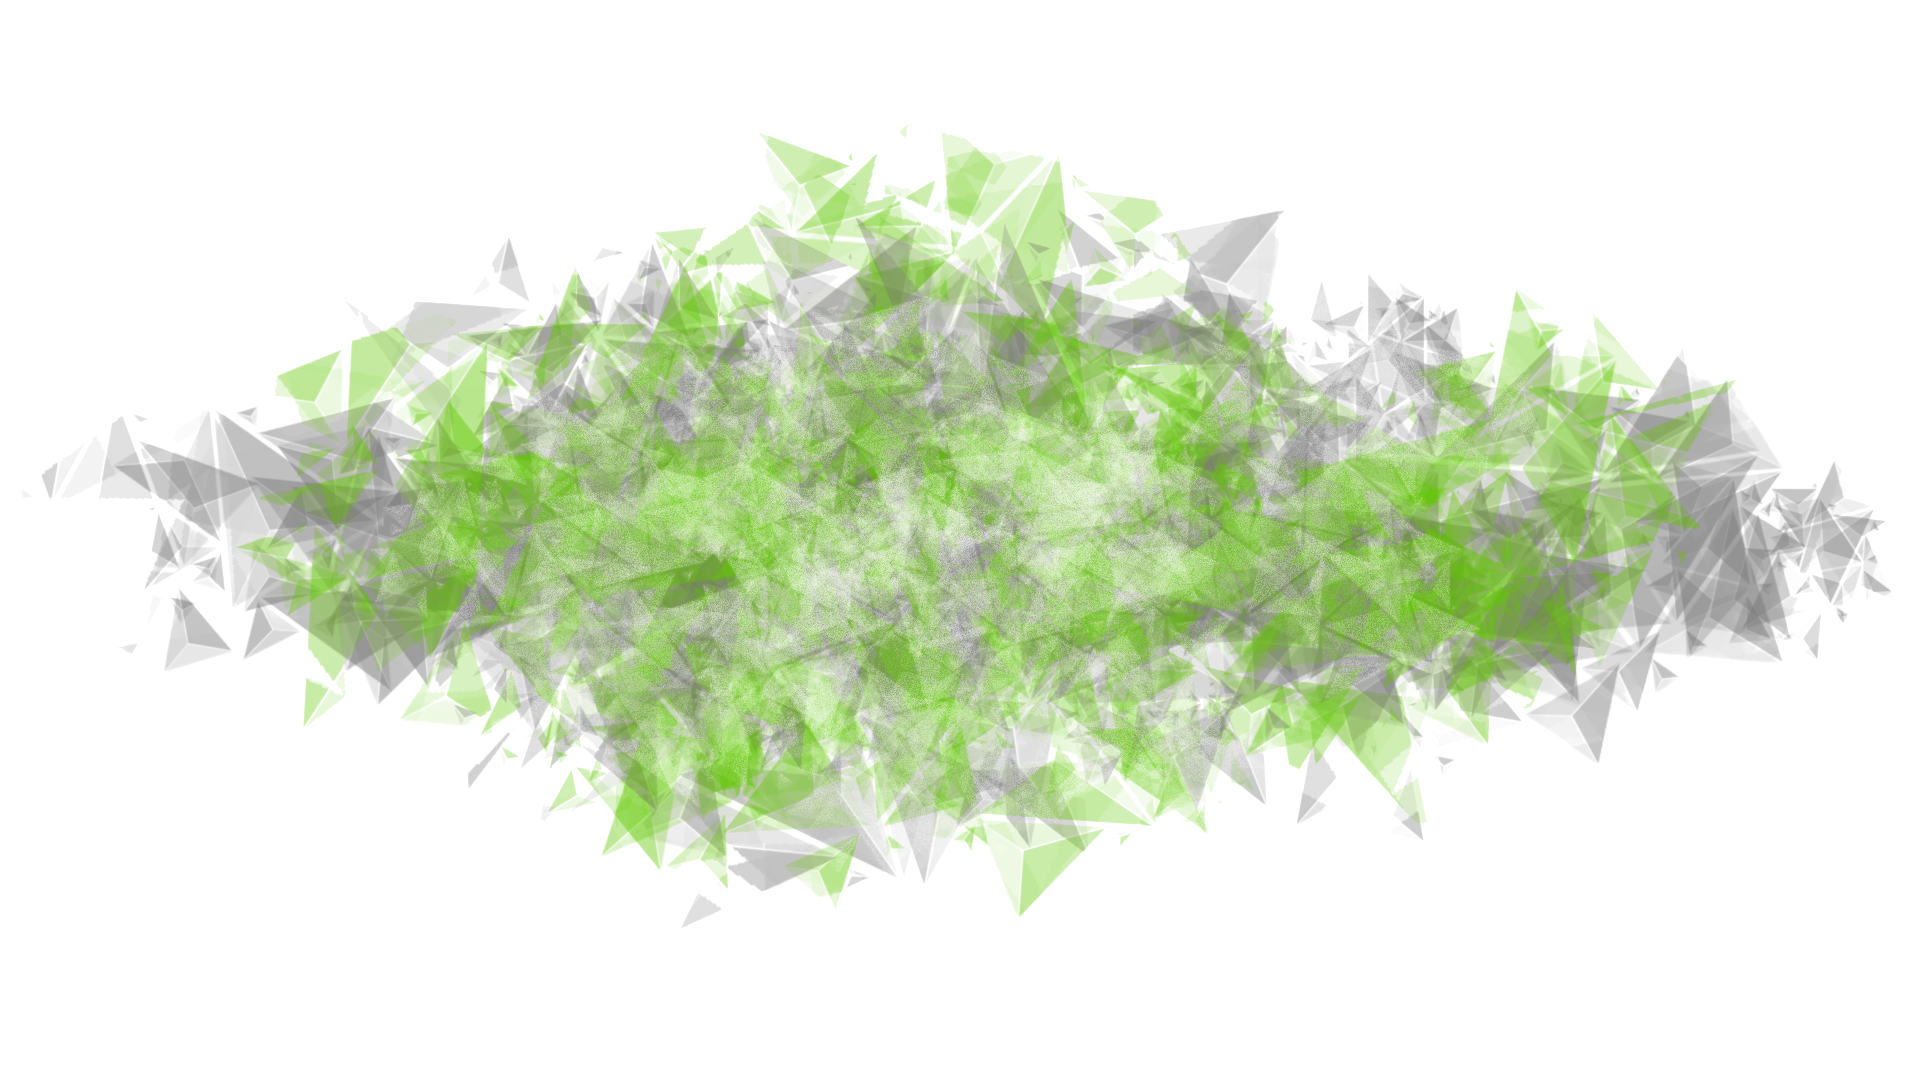
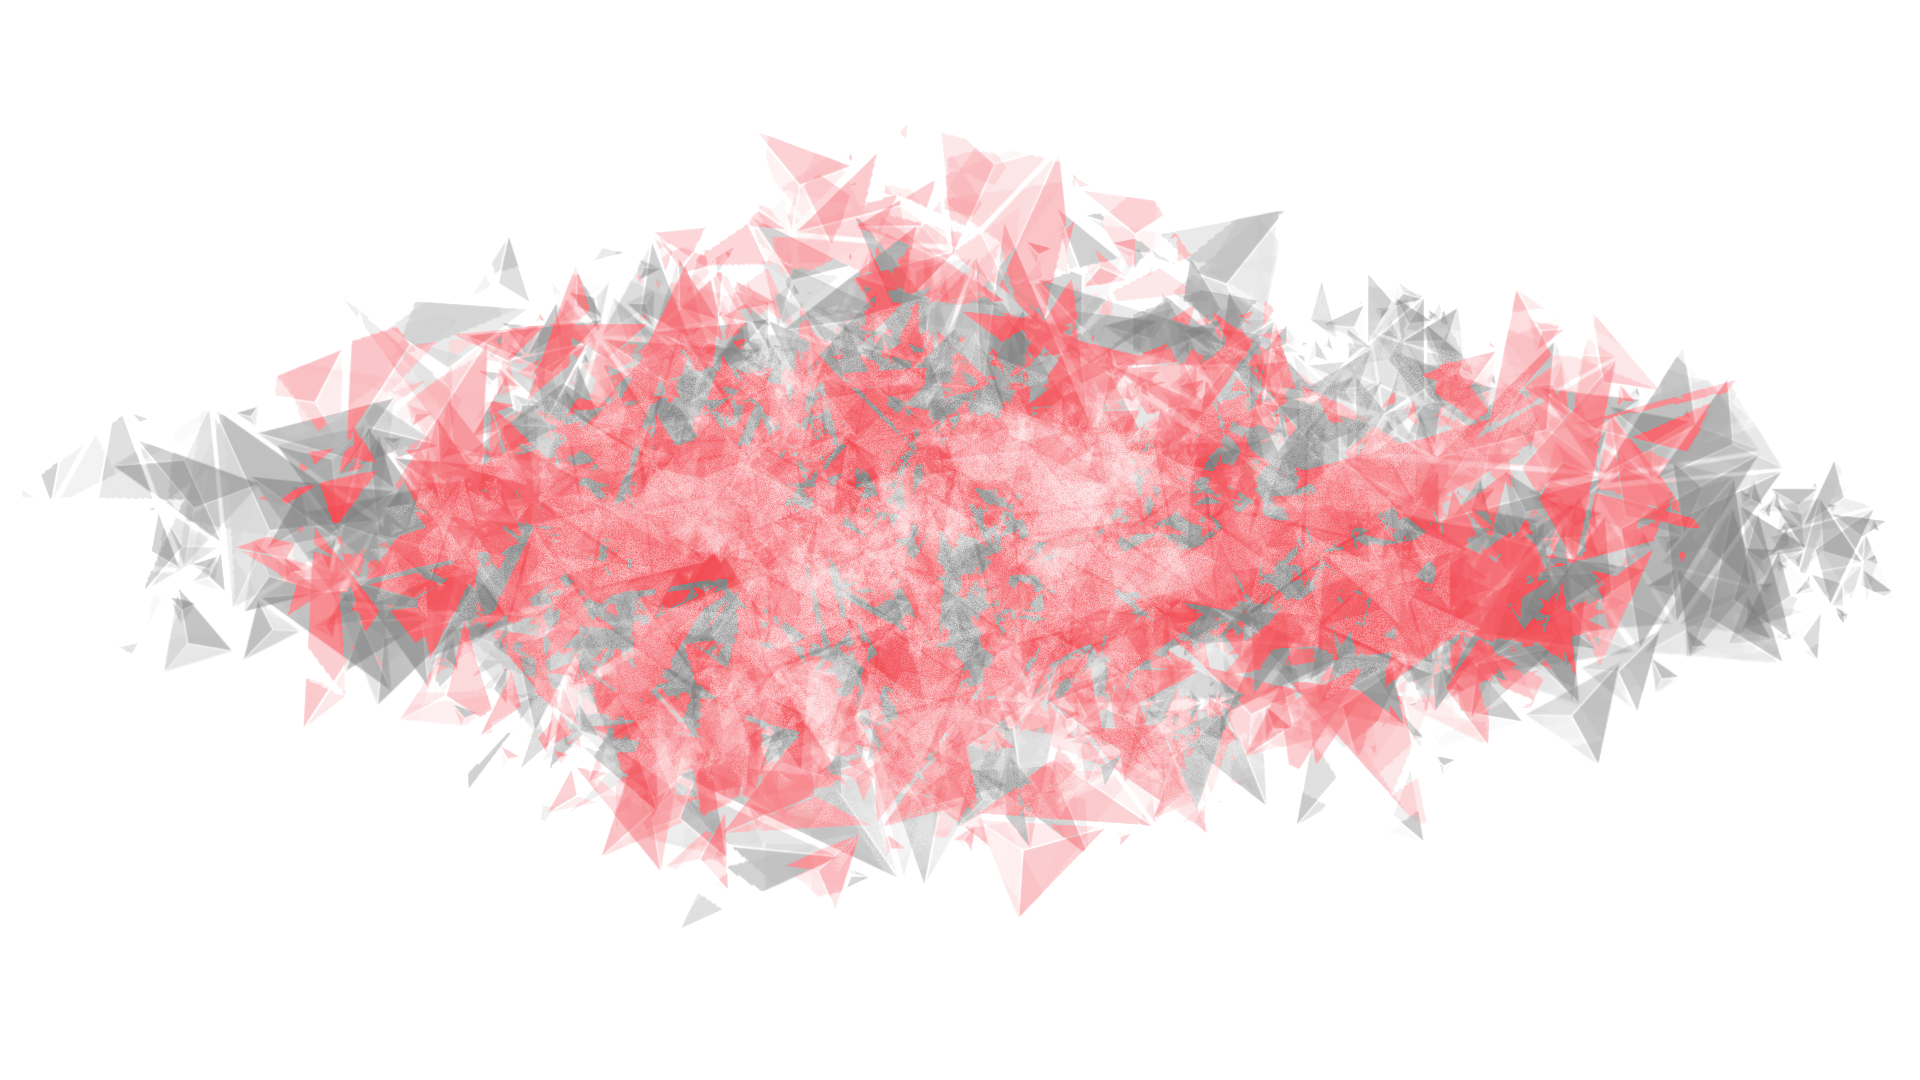
red>green

Changed region(s): [[0.125, 0.1222, 0.9062, 0.8556]]

diff --git a/main.css b/main.css
@@ -1,8 +1,8 @@
 /* VARIABLES */
 
 :root {
-    --primary-color: rgba(130, 224, 0, 0.9);
-    --secondary-color: rgba(94, 160, 2, 0.9);
+    --primary-color: rgba(227, 0, 7, 0.9);
+    --secondary-color: rgba(162, 0, 5, 0.9);
     --lighter-bg-color: #eee;
     --font-color: #000;
     --bg-color: #fff;
@@ -16,8 +16,8 @@
 }
 
 [data-theme="dark"] {
-    --primary-color: rgba(177, 255, 69, 0.9);
-    --secondary-color: rgba(94, 160, 2, 0.9);
+    --primary-color: rgba(227, 0, 7, 0.9);
+    --secondary-color: rgba(162, 0, 5, 0.9);
     --lighter-bg-color: rgb(30, 30, 30);
     --font-color: #ffffff;
     --bg-color: #0a0a0a;
@@ -274,7 +274,7 @@ a:hover {
 }
 
 #oops .heading h1 {
-    background-image: url(lib/homebg.png);
+    background-image: url(namanchandok.co/lib/homebg.png);
     background-size: cover;
     background-position: center;
     -webkit-background-clip: text;
